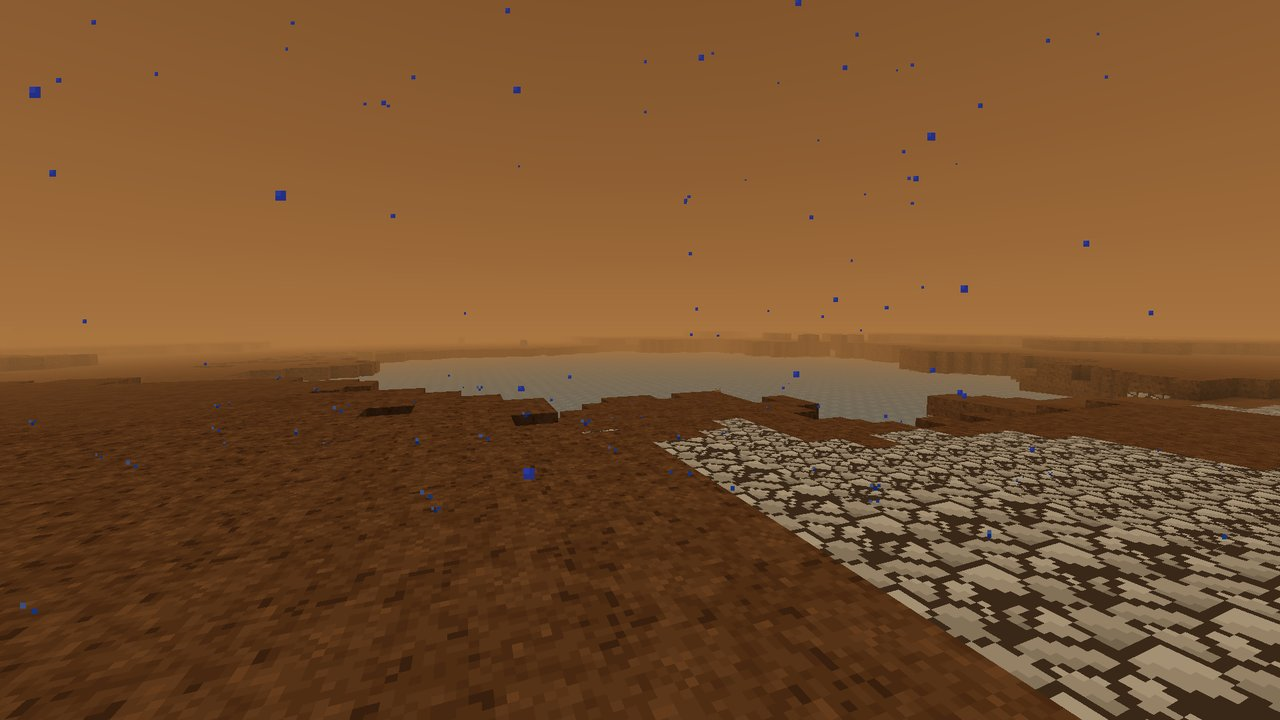
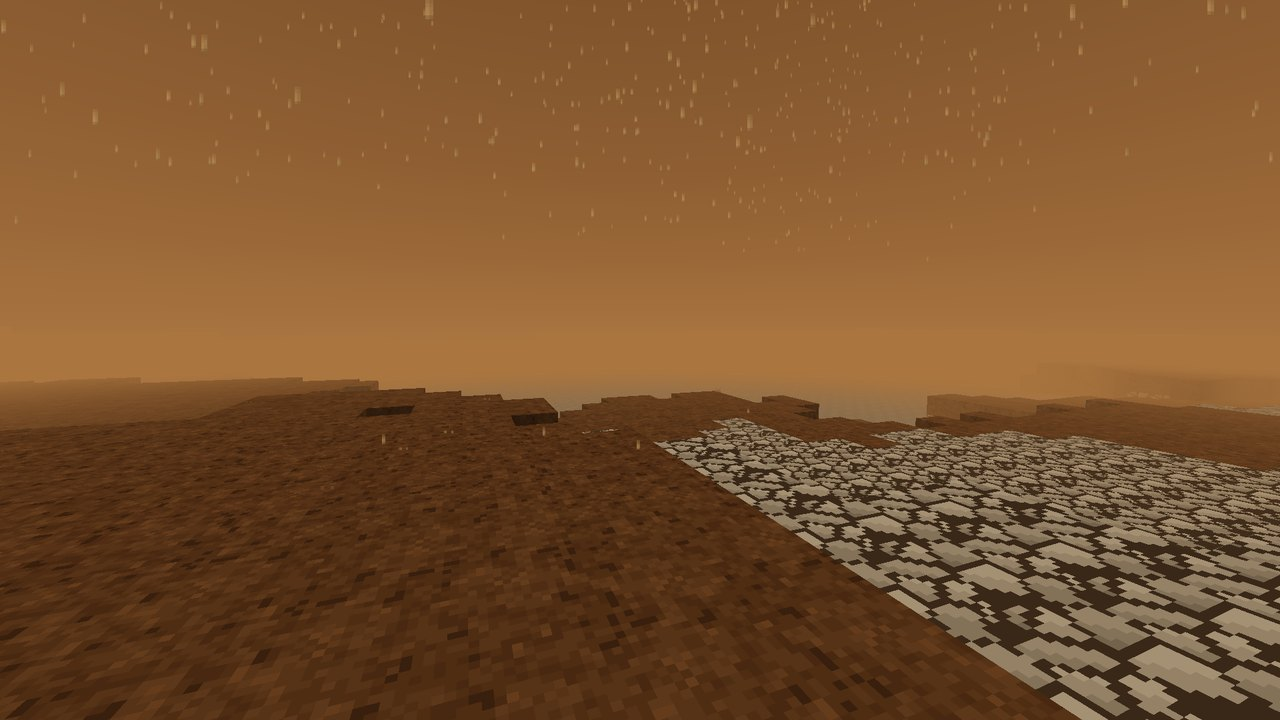
Titan methane rain particle, Enceladus plume shot
- Methane Drop particle (code-drawn): large, slow, pale amber drops with a short splash instead of blue water drips
- Showcase vent helper now jumps to the start of an eruption (it could land on the last tick of one); Enceladus geyser shot shows its plume in front of Saturn
- New and refreshed Saturn screenshots, CONTENT.md note

diff --git a/src/main/java/com/pizzaparker07/spacebreaker/client/saturn/SaturnClient.java b/src/main/java/com/pizzaparker07/spacebreaker/client/saturn/SaturnClient.java
@@ -5,6 +5,7 @@ import com.pizzaparker07.spacebreaker.Spacebreaker;
 import com.pizzaparker07.spacebreaker.client.jupiter.GiantPlanetSkyEffects;
 import com.pizzaparker07.spacebreaker.client.mars.SimpleMobRenderer;
 import com.pizzaparker07.spacebreaker.content.saturn.SaturnModule;
+import com.pizzaparker07.spacebreaker.content.saturn.SaturnParticles;
 import com.pizzaparker07.spacebreaker.content.saturn.TitanWeather;
 import com.pizzaparker07.spacebreaker.content.saturn.entity.GeyserDrifter;
 import com.pizzaparker07.spacebreaker.content.saturn.entity.SaturnEntities;
@@ -14,7 +15,6 @@ import net.minecraft.client.renderer.MultiBufferSource;
 import net.minecraft.client.renderer.RenderType;
 import net.minecraft.client.renderer.entity.layers.EyesLayer;
 import net.minecraft.core.BlockPos;
-import net.minecraft.core.particles.ParticleTypes;
 import net.minecraft.resources.ResourceLocation;
 import net.minecraft.util.RandomSource;
 import net.minecraft.world.level.levelgen.Heightmap;
@@ -24,6 +24,7 @@ import net.neoforged.fml.common.EventBusSubscriber;
 import net.neoforged.neoforge.client.event.ClientTickEvent;
 import net.neoforged.neoforge.client.event.EntityRenderersEvent;
 import net.neoforged.neoforge.client.event.RegisterDimensionSpecialEffectsEvent;
+import net.neoforged.neoforge.client.event.RegisterParticleProvidersEvent;
 
 /**
  * Client side of Saturn's moons: Titan's hazy orange sky and its methane rain, Enceladus' black sky with Saturn 28°
@@ -42,6 +43,11 @@ public final class SaturnClient {
         event.register(Spacebreaker.id("titan"), new TitanSkyEffects());
         event.register(Spacebreaker.id("enceladus"), new GiantPlanetSkyEffects(Bodies.key("enceladus"),
                 new GiantPlanetSkyEffects.Parent(SATURN_DISC, SATURN_RINGS, 1.24, 2.27, 4.0, 1F)));
+    }
+
+    @SubscribeEvent
+    static void particles(RegisterParticleProvidersEvent event) {
+        event.registerSpriteSet(SaturnParticles.METHANE_DROP.get(), MethaneDropParticle.Provider::new);
     }
 
     @SubscribeEvent
@@ -94,9 +100,9 @@ public final class SaturnClient {
             int ground = mc.level.getHeight(Heightmap.Types.MOTION_BLOCKING, (int) Math.floor(x), (int) Math.floor(z));
             double top = Math.max(ground, mc.player.getY()) + 6 + r.nextDouble() * 10;
             if (r.nextInt(4) == 0) {
-                mc.level.addParticle(ParticleTypes.RAIN, x, ground + 0.05, z, 0, 0, 0);
+                mc.level.addParticle(SaturnParticles.METHANE_DROP.get(), x, ground + 0.3, z, 0, -0.1, 0);
             } else {
-                mc.level.addParticle(ParticleTypes.FALLING_WATER, x, top, z, 0, -0.05, 0);
+                mc.level.addParticle(SaturnParticles.METHANE_DROP.get(), x, top, z, 0, -0.08, 0);
             }
         }
     }

diff --git a/src/main/java/com/pizzaparker07/spacebreaker/client/saturn/MethaneDropParticle.java b/src/main/java/com/pizzaparker07/spacebreaker/client/saturn/MethaneDropParticle.java
@@ -1,0 +1,70 @@
+package com.pizzaparker07.spacebreaker.client.saturn;
+
+import net.minecraft.client.multiplayer.ClientLevel;
+import net.minecraft.client.particle.Particle;
+import net.minecraft.client.particle.ParticleProvider;
+import net.minecraft.client.particle.ParticleRenderType;
+import net.minecraft.client.particle.SpriteSet;
+import net.minecraft.client.particle.TextureSheetParticle;
+import net.minecraft.core.particles.SimpleParticleType;
+
+/**
+ * A methane raindrop: in Titan's thick air and low gravity drops are large and fall slowly (about a sixth of the speed
+ * of rain on Earth). Pale amber in the orange daylight; on landing it shows a short, flat splash.
+ */
+public class MethaneDropParticle extends TextureSheetParticle {
+    private static final int SPLASH = 5;
+    private final SpriteSet sprites;
+    private int splash = -1;
+
+    protected MethaneDropParticle(ClientLevel level, double x, double y, double z, double vy, SpriteSet sprites) {
+        super(level, x, y, z, 0, 0, 0);
+        this.sprites = sprites;
+        this.xd = 0;
+        this.zd = 0;
+        this.yd = vy;
+        this.gravity = 0.006F;
+        this.friction = 0.96F;
+        this.lifetime = 200;
+        this.quadSize = 0.09F + random.nextFloat() * 0.04F;
+        float shade = 0.9F + random.nextFloat() * 0.1F;
+        this.rCol = shade;
+        this.gCol = shade * 0.86F;
+        this.bCol = shade * 0.62F;
+        this.alpha = 0.75F;
+        this.hasPhysics = true;
+        setSprite(sprites.get(0, 1));
+    }
+
+    @Override
+    public void tick() {
+        if (splash >= 0) {
+            xo = x;
+            yo = y;
+            zo = z;
+            if (++splash > SPLASH) {
+                remove();
+            }
+            alpha = 0.7F * (1 - splash / (float) (SPLASH + 1));
+            return;
+        }
+        super.tick();
+        if (onGround || level.getFluidState(net.minecraft.core.BlockPos.containing(x, y, z)).isSource()) {
+            splash = 0;
+            quadSize *= 1.3F;
+            setSprite(sprites.get(1, 1));
+        }
+    }
+
+    @Override
+    public ParticleRenderType getRenderType() {
+        return ParticleRenderType.PARTICLE_SHEET_TRANSLUCENT;
+    }
+
+    public record Provider(SpriteSet sprites) implements ParticleProvider<SimpleParticleType> {
+        @Override
+        public Particle createParticle(SimpleParticleType type, ClientLevel level, double x, double y, double z, double vx, double vy, double vz) {
+            return new MethaneDropParticle(level, x, y, z, vy, sprites);
+        }
+    }
+}

diff --git a/tools/textures/modules/saturn.py b/tools/textures/modules/saturn.py
@@ -242,6 +242,27 @@ def saturn_rings(width=256):
 
 # --------------------------------------------------------------------------- export
 
+def methane_drop():
+    """A large, slow raindrop (tinted pale amber in game): a short rounded streak, brighter at the leading end."""
+    cv = Canvas(8, 8)
+    for y, a in ((1, 90), (2, 150), (3, 200), (4, 240), (5, 255)):
+        cv[3, y] = (235, 235, 235, a)
+        cv[4, y] = (210, 210, 210, a)
+    cv[3, 6] = (200, 200, 200, 230)
+    cv[4, 6] = (180, 180, 180, 200)
+    return cv
+
+
+def methane_splash():
+    """The flat splash of a landing drop: a broken ring."""
+    cv = Canvas(8, 8)
+    for x, y in ((1, 4), (2, 3), (5, 3), (6, 4), (2, 5), (5, 5), (3, 6), (4, 6)):
+        cv[x, y] = (225, 225, 225, 210)
+    cv[3, 4] = (200, 200, 200, 120)
+    cv[4, 4] = (200, 200, 200, 120)
+    return cv
+
+
 def export(save):
     dust_spec = (18, 8, 64, None)
     frost_spec = (90, 14, 30, None)
@@ -259,6 +280,8 @@ def export(save):
     glow = lambda c: (200, 20, 0, 230) if c[3] else None
     save(sulcus_ice(), 'block', 'sulcus_ice', (200, 20, 0, glow))
     save(tholin_item(), 'item', 'tholin')
+    save(methane_drop(), 'particle', 'methane_drop')
+    save(methane_splash(), 'particle', 'methane_splash')
     save(methane_skater(), 'entity', 'saturn/methane_skater')
     save(geyser_drifter(), 'entity', 'saturn/geyser_drifter')
     save(geyser_drifter_glow(), 'entity', 'saturn/geyser_drifter_glow')

diff --git a/src/testmod/java/com/pizzaparker07/spacebreaker/testmod/showcase/OuterShowcase.java b/src/testmod/java/com/pizzaparker07/spacebreaker/testmod/showcase/OuterShowcase.java
@@ -97,7 +97,7 @@ abstract class OuterShowcase implements ShowcaseScenario {
         shot(name, x + 0.5, ground(level, x, z) + 1.7, z + 0.5, yaw, pitch, 160, at(dayFraction), MoonScenario::farView);
     }
 
-    /** Jumps the world clock to a moment when the vent at {@code pos} is erupting (plumes in showcase shots). */
+    /** Jumps the world clock to 40 ticks into an eruption of the vent at {@code pos} (plumes in showcase shots). */
     static Consumer<ServerPlayer> erupting(BlockPos pos, double dayFraction, boolean nightVision) {
         return p -> {
             ServerLevel level = p.serverLevel();
@@ -105,7 +105,8 @@ abstract class OuterShowcase implements ShowcaseScenario {
             if (level.getBlockState(pos).getBlock() instanceof VentBlock v) {
                 long now = level.getGameTime();
                 long t = now;
-                while (!VentBlock.erupting(v.kind(), t, pos) && t < now + v.kind().period()) {
+                // the start of the next eruption (not a moment late in one already under way)
+                while (!(VentBlock.erupting(v.kind(), t, pos) && !VentBlock.erupting(v.kind(), t - 1, pos)) && t < now + 2L * v.kind().period()) {
                     t++;
                 }
                 level.getServer().getWorldData().overworldData().setGameTime(t + 40);

diff --git a/src/main/java/com/pizzaparker07/spacebreaker/content/saturn/SaturnParticles.java b/src/main/java/com/pizzaparker07/spacebreaker/content/saturn/SaturnParticles.java
@@ -1,0 +1,24 @@
+package com.pizzaparker07.spacebreaker.content.saturn;
+
+import com.pizzaparker07.spacebreaker.Spacebreaker;
+import net.minecraft.core.particles.ParticleType;
+import net.minecraft.core.particles.SimpleParticleType;
+import net.minecraft.core.registries.Registries;
+import net.neoforged.bus.api.IEventBus;
+import net.neoforged.neoforge.registries.DeferredHolder;
+import net.neoforged.neoforge.registries.DeferredRegister;
+
+/** Particles of Saturn's moons. */
+public final class SaturnParticles {
+    public static final DeferredRegister<ParticleType<?>> TYPES = DeferredRegister.create(Registries.PARTICLE_TYPE, Spacebreaker.MOD_ID);
+    /** A methane raindrop on Titan: big, slow, pale amber in the orange light; splashes where it lands. */
+    public static final DeferredHolder<ParticleType<?>, SimpleParticleType> METHANE_DROP = TYPES.register("methane_drop",
+            () -> new SimpleParticleType(false));
+
+    private SaturnParticles() {
+    }
+
+    static void register(IEventBus modBus) {
+        TYPES.register(modBus);
+    }
+}

diff --git a/src/testmod/java/com/pizzaparker07/spacebreaker/testmod/showcase/SaturnianScenario.java b/src/testmod/java/com/pizzaparker07/spacebreaker/testmod/showcase/SaturnianScenario.java
@@ -128,12 +128,12 @@ final class SaturnianScenario extends OuterShowcase {
         }
         if (vent != null) {
             BlockPos v = vent;
-            double y = ground(level, v.getX() + 18, v.getZ() + 12) + 3;
+            double y = Math.max(ground(level, v.getX() + 14, v.getZ() + 9), v.getY() + 1) + 5;
             for (int i = 0; i < 3; i++) {
                 mob(level, SaturnEntities.GEYSER_DRIFTER.get(), v.getX() + 3 + i * 2, ground(level, v.getX() + 3 + i * 2, v.getZ() + 2) + 3 + i, v.getZ() + 2,
                         i * 90F);
             }
-            shot("04_south_polar_geysers", v.getX() + 14.5, y, v.getZ() + 9.5, MoonScenario.yaw(-14, -9), -18F, 220, erupting(v, 0.15, false),
+            shot("04_south_polar_geysers", v.getX() + 14.5, y, v.getZ() + 9.5, MoonScenario.yaw(-14, -9), -18F, 140, erupting(v, 0.15, false),
                     MoonScenario::farView);
         }
         int y0 = stage(level, SaturnModule.ENCELADUS_SNOW.get().defaultBlockState(), SaturnModule.ENCELADUS_ICE.get().defaultBlockState(),

diff --git a/src/main/java/com/pizzaparker07/spacebreaker/content/saturn/SaturnModule.java b/src/main/java/com/pizzaparker07/spacebreaker/content/saturn/SaturnModule.java
@@ -94,6 +94,7 @@ public final class SaturnModule implements SbModule {
         SaturnEntities.register(modBus, KIT.items);
         com.pizzaparker07.spacebreaker.content.saturn.dungeon.SaturnStructures.register(modBus);
         KIT.blocks.register(modBus);
+        SaturnParticles.register(modBus);
         KIT.items.register(modBus);
         KIT.tab.forEach(SbTabs.PLANETS::add);
         SaturnEntities.eggs().forEach(SbTabs.PLANETS::add);

diff --git a/docs/CONTENT.md b/docs/CONTENT.md
@@ -210,7 +210,7 @@ Her içerik paketi gerçek istemcide vitrin dünyasında fotoğraflanır; onayda
 ### Satürn uyduları
 | Durum | İçerik | Not |
 |---|---|---|
-| 🎨 | Titan `spacebreaker:titan` | 1,5 bar azot, oksijen yok, -179 °C; turuncu pus (yoğun sis, yıldızsız gök, soluk güneş), hidrokarbon kumul denizi, organik ovalar, kutuplarda metan gölleri (kaynamayan sıvı metan), metan sağanakları; yoğun havada yumuşak düşüş ve uzun süzülme (elytra kaldırma kuvveti kazanır) |
+| 🎨 | Titan `spacebreaker:titan` | 1,5 bar azot, oksijen yok, -179 °C; turuncu pus (yoğun sis, yıldızsız gök, soluk güneş), hidrokarbon kumul denizi, organik ovalar, kutuplarda metan gölleri (kaynamayan sıvı metan), metan sağanakları (iri, yavaş düşen soluk amber damlalar); yoğun havada yumuşak düşüş ve uzun süzülme (elytra kaldırma kuvveti kazanır) |
 | 🎨 | Titan blokları | Tolin Kumu, Tolin Çamuru (kalıcı ayak izi), Titan Ana Kaya Buzu (+ merdiven, basamak, duvar), Buz Çakılları, Tolin Yatağı (→ Tolin) |
 | 🎨 | Enceladus `spacebreaker:enceladus` | en parlak buz; güney kutbunda kaplan çizgisi yarıkları ve gayzer alanı; gökte 28° genişliğinde, halkaları neredeyse yandan görünen Satürn (halka gölgesiyle) |
 | 🎨 | Enceladus blokları | Enceladus Karı (kalıcı ayak izi), Enceladus Buzu, Kaplan Çizgisi Buzu (hafif parlar) |
